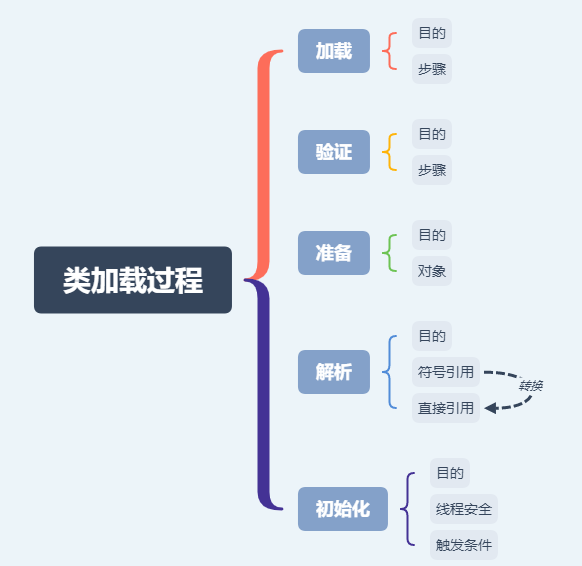
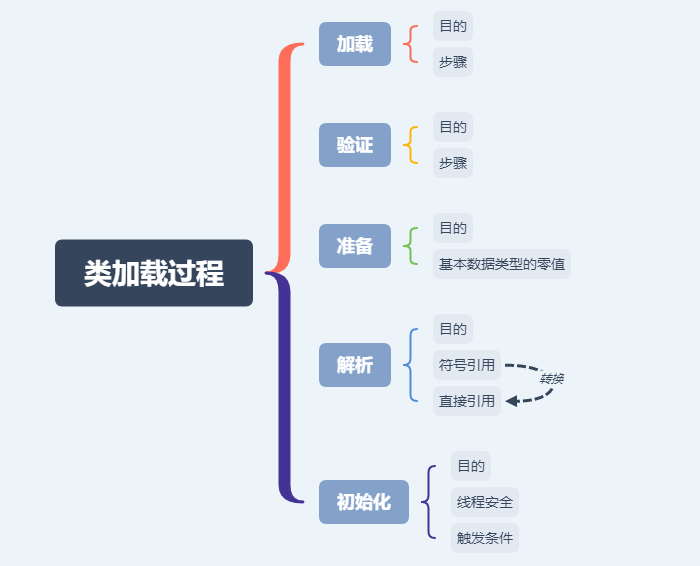
优化类加载过程.md

diff --git a/docs/JVM/类加载过程.md b/docs/JVM/类加载过程.md
@@ -36,8 +36,6 @@
 - 基本数据类型的零值(图片来自《深入理解 Java 虚拟机》第3版7.33)
 ![基本数据类型的零值](../../pictures/基本数据类型的零值.png)
 
-### 对象
-
 ## 解析
 
 - 目的
